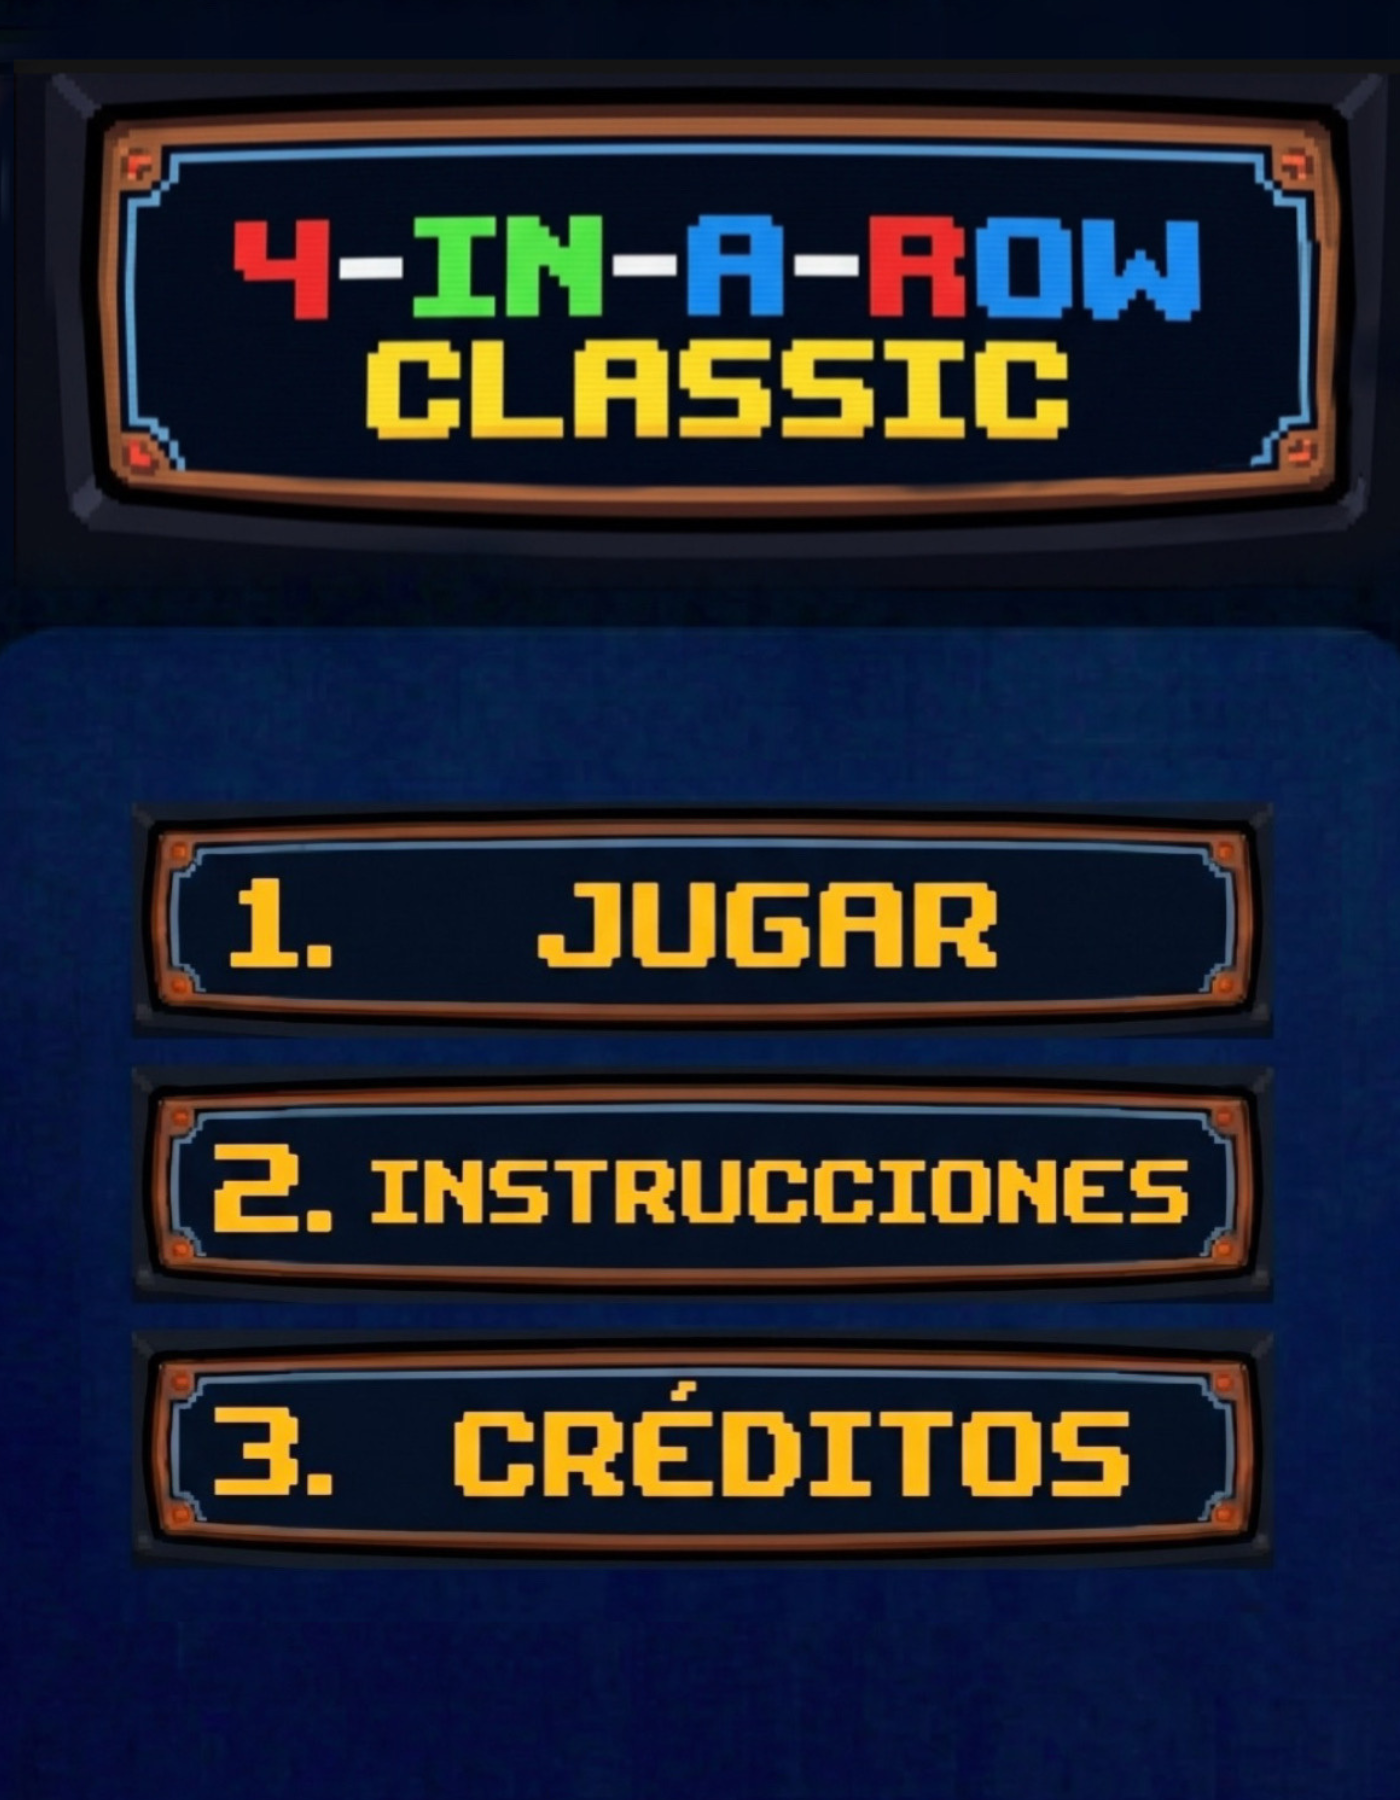
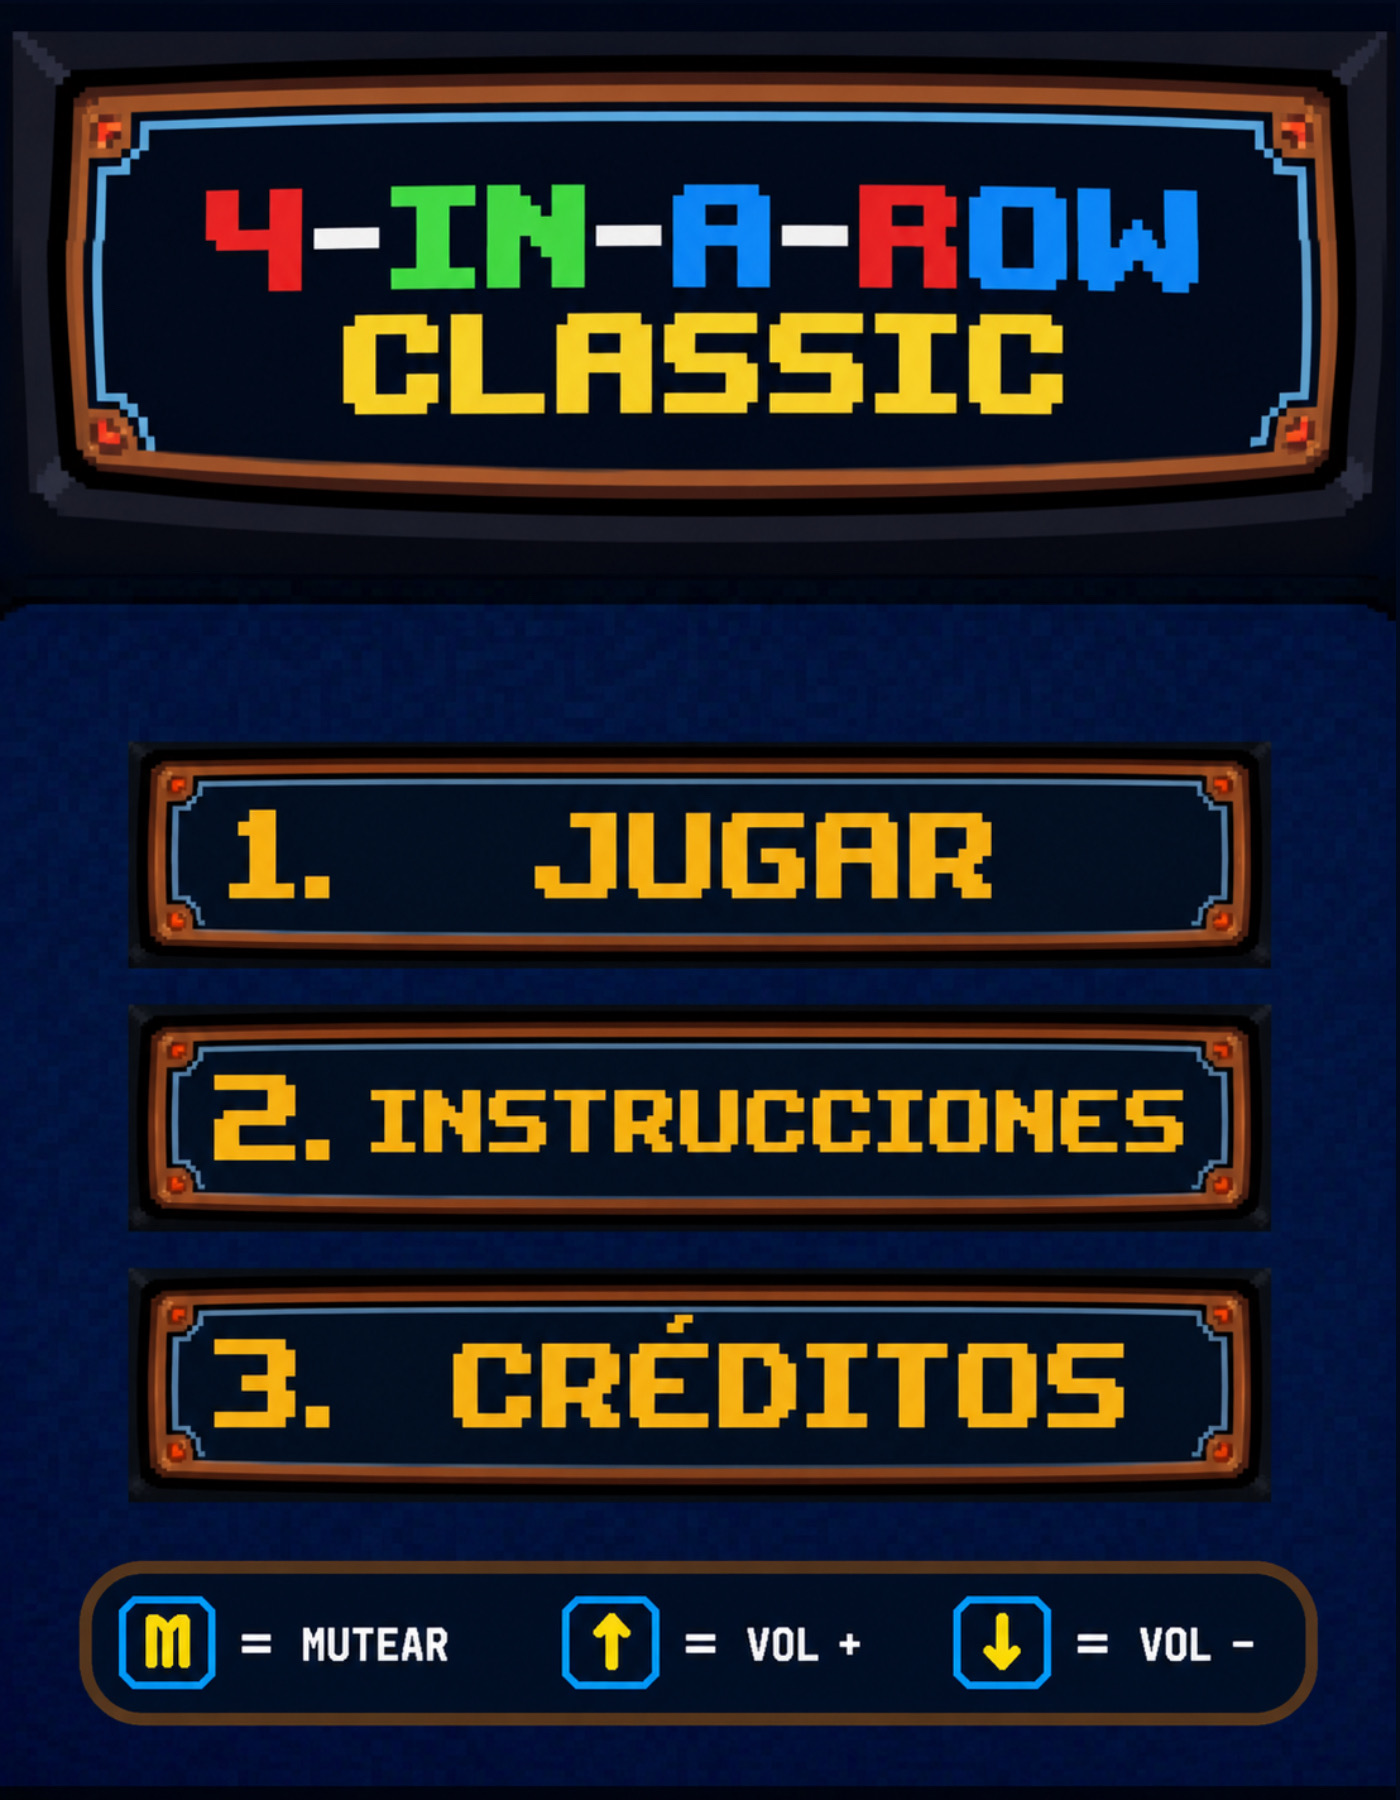
agregado visual de botones en menu principal, agregado de capturas del juego en funcionamiento en el readme

diff --git a/README.md b/README.md
@@ -8,9 +8,21 @@
 - Katia Soler
 - Narancio D. Lucas
 
-## Capturas
+## Capturas del juego en funcionamiento
+#### Imagen de la pantalla de inicio del juego
+<img  src= "assets\CapturaInicio.png" width ="300px"/>
 
-(agregar)
+#### Imagen de los modos del juego
+<img  src="assets\CapturaModosDeJuego.png" width ="300px"/>
+
+#### Imagen del modo de juego 1v1
+<img  src="assets\CapturaTablero1v1.png" width ="300px"/>
+
+#### Imagen del modo de juego contra la IA
+<img  src="assets\CapturaJuegoContraIA.png" width ="300px"/>
+
+#### Imagen de un ejemplo de fin de juego
+<img  src="assets\CapturaFinDeJuego.png" width ="300px"/>
 
 ## Reglas de Juego / Instrucciones
 # 🎮 Cómo jugar
